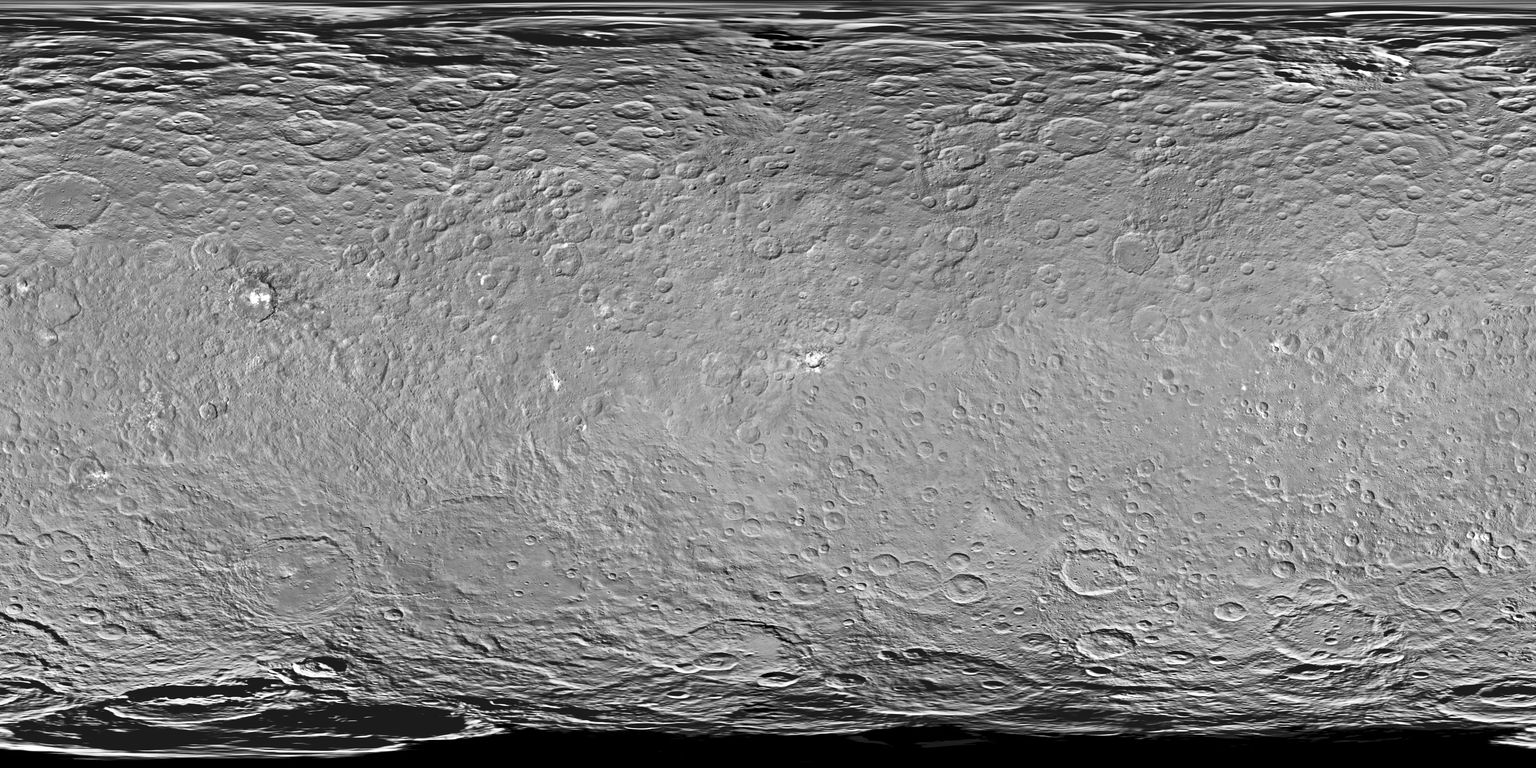
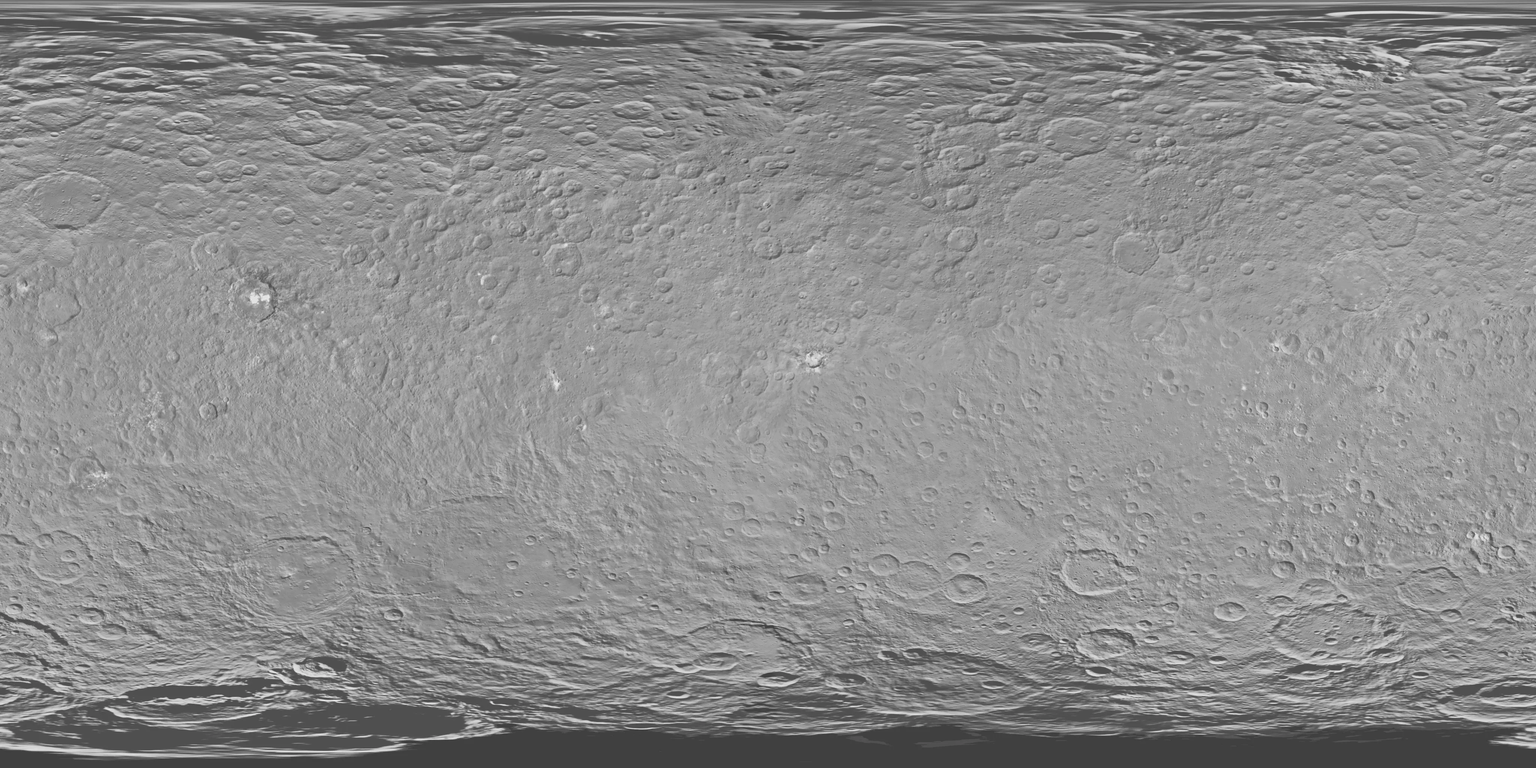
World Drive: Vesta's and Ceres's pictures evened out to the Moon's spread; their ground's brightness from their looks
Claude-Session: https://claude.ai/code/session_01Bv8md1azh7nLR7EfQh72Dr

diff --git a/src/drive-app/body.js b/src/drive-app/body.js
@@ -60,8 +60,9 @@ import { MOON, WORLDS } from './worlds.js';
 //   Vesta and Ceres) as [ r, g, b ], and the share of Lommel-Seeliger's light (how bare dust scatters
 //   it: a full Moon's edge as bright as its middle); and `tint`, [ r, g, b ] times the picture's
 //   colours (the Viking mosaic's Mars is pinker and bluer than the butterscotch ground the rovers
-//   see; Dawn's pictures of Vesta and Ceres are grey and stretched alike, so the tint is what makes
-//   Vesta's bright rock brighter than the Moon's and Ceres's dark ground darker).
+//   see; Dawn's pictures of Vesta and Ceres are grey and evened out alike, to the Moon's picture's
+//   spread, so the tint is what makes Vesta's pale rock a little brighter than the Moon's and
+//   Ceres's dark ground darker).
 // - haze: on a world with air, how far off (m) its dust hides half of what's there, and its colour,
 //   seen from the ground (none from high up); null for none.
 // - sky: on a world with air, its sky's colours, overhead and at the horizon, round the sun, and the
@@ -105,7 +106,7 @@ export const LOOKS = {
 	// kilometres lower than the ground under the camera all the way.
 	vesta: {
 		horizon: 3000,
-		shade: { sun: 2.2, ambient: [ 0.03, 0.03, 0.03 ], lommel: 0.15, tint: [ 1.3, 1.26, 1.18 ] },
+		shade: { sun: 2.2, ambient: [ 0.03, 0.03, 0.03 ], lommel: 0.15, tint: [ 1.06, 1.03, 0.97 ] },
 		haze: null,
 		sky: null,
 		sun: [ - 0.62, - 0.66, 0.42 ],
@@ -116,7 +117,7 @@ export const LOOKS = {
 	},
 	ceres: {
 		horizon: 2000,
-		shade: { sun: 2.2, ambient: [ 0.025, 0.025, 0.025 ], lommel: 0.12, tint: [ 0.84, 0.84, 0.86 ] },
+		shade: { sun: 2.2, ambient: [ 0.025, 0.025, 0.025 ], lommel: 0.12, tint: [ 0.6, 0.6, 0.62 ] },
 		haze: null,
 		sky: null,
 		sun: [ - 0.72, - 0.55, 0.42 ],

diff --git a/src/drive-app/vesta-places.js b/src/drive-app/vesta-places.js
@@ -15,7 +15,7 @@ const vesta = ( id, name, region, lat, lon, extra = {} ) => ( { id: `vesta-${ id
 export const VESTA_SPOTS = [
 	vesta( 'rheasilvia-peak', 'Rheasilvia\'s central peak', 'Rising some 20 km over the basin floor', - 78.31, 86.31, { also: [ 'Rheasilvia Mons', 'Central peak', 'Highest mountain' ] } ),
 	vesta( 'rheasilvia', 'Rheasilvia', 'The great south pole basin, 450 km across', - 71.951, 86.303, { also: [ 'Rheasilvia basin', 'South pole basin' ] } ),
-	vesta( 'snowman', 'Marcia', 'The "Snowman"\'s biggest crater, 68 km', 8.979, - 20.452, { also: [ 'Snowman', 'Snowman craters' ] } ),
+	vesta( 'snowman', 'Marcia', 'The biggest of the Snowman\'s three craters, 68 km', 8.979, - 20.452, { also: [ 'Snowman', 'Snowman craters' ] } ),
 	vesta( 'calpurnia', 'Calpurnia', 'The Snowman\'s middle crater, 50 km', 16.722, - 10.899 ),
 	vesta( 'divalia-fossae', 'Divalia Fossae', 'Troughs round the equator, 549 km long', - 9.053, - 163.769 ),
 	vesta( 'matronalia-rupes', 'Matronalia Rupes', 'A scarp on Rheasilvia\'s rim, 15 km up', - 49.416, - 127.24 ),
